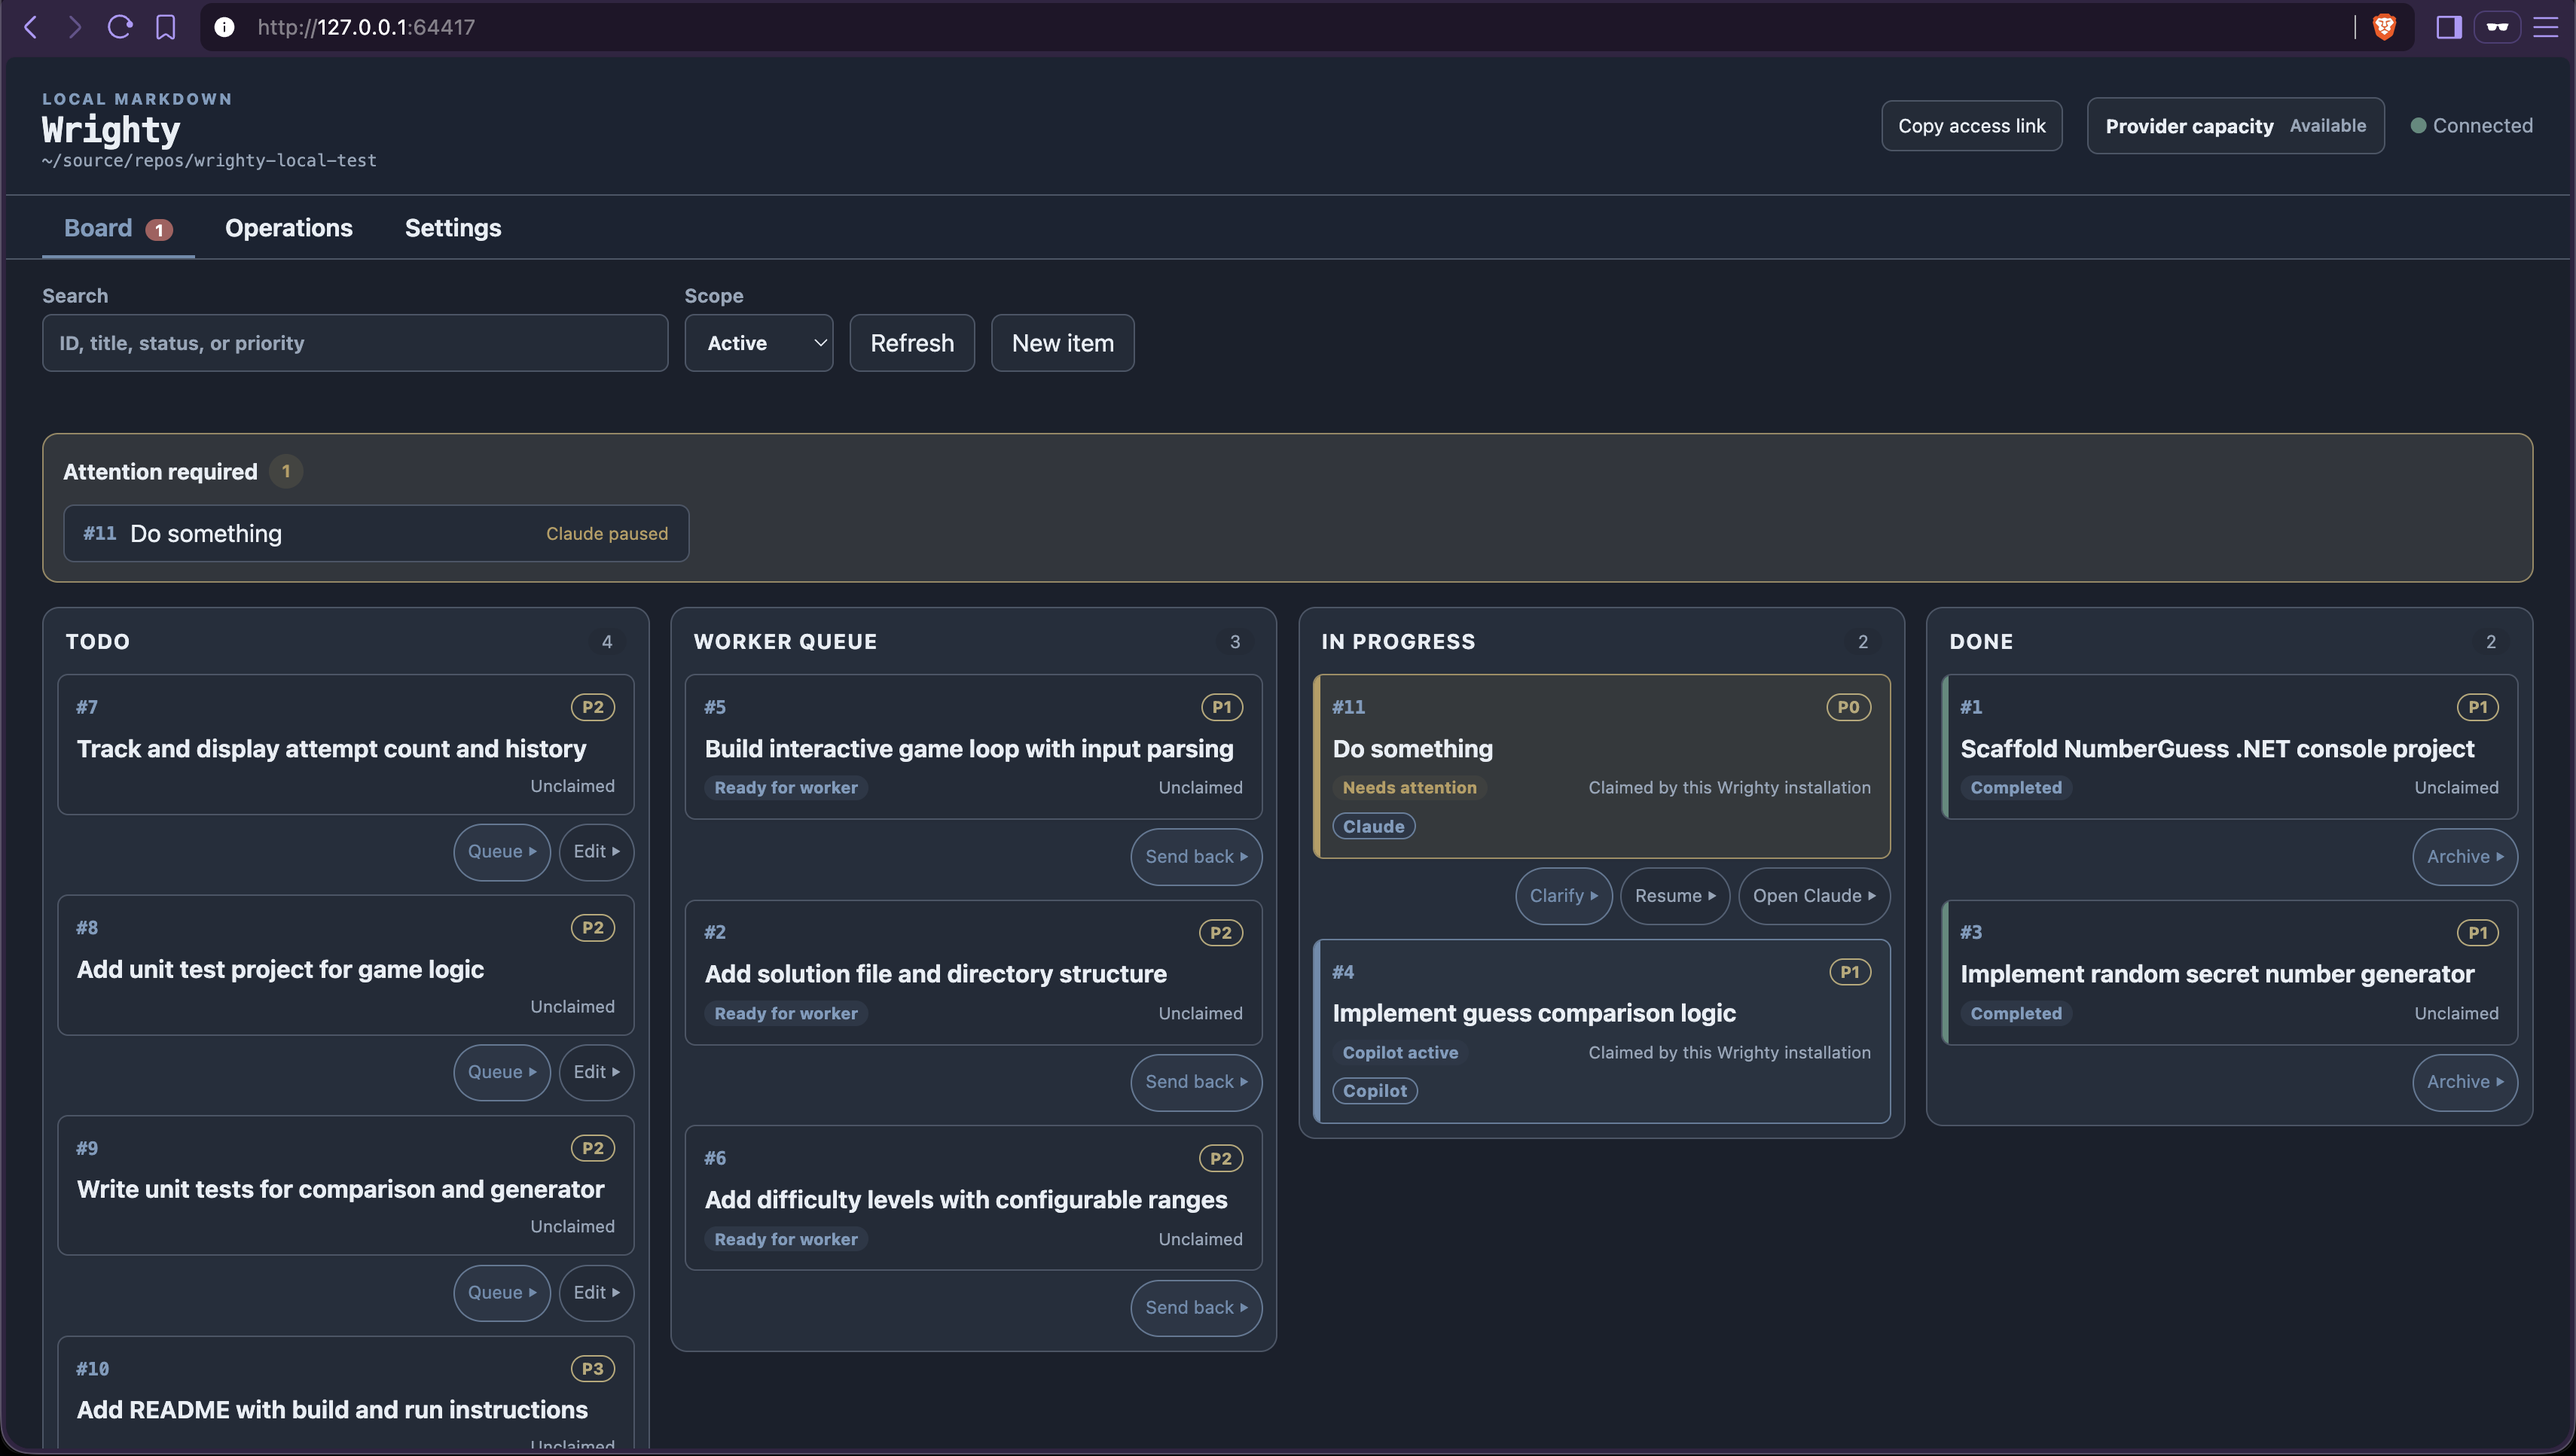
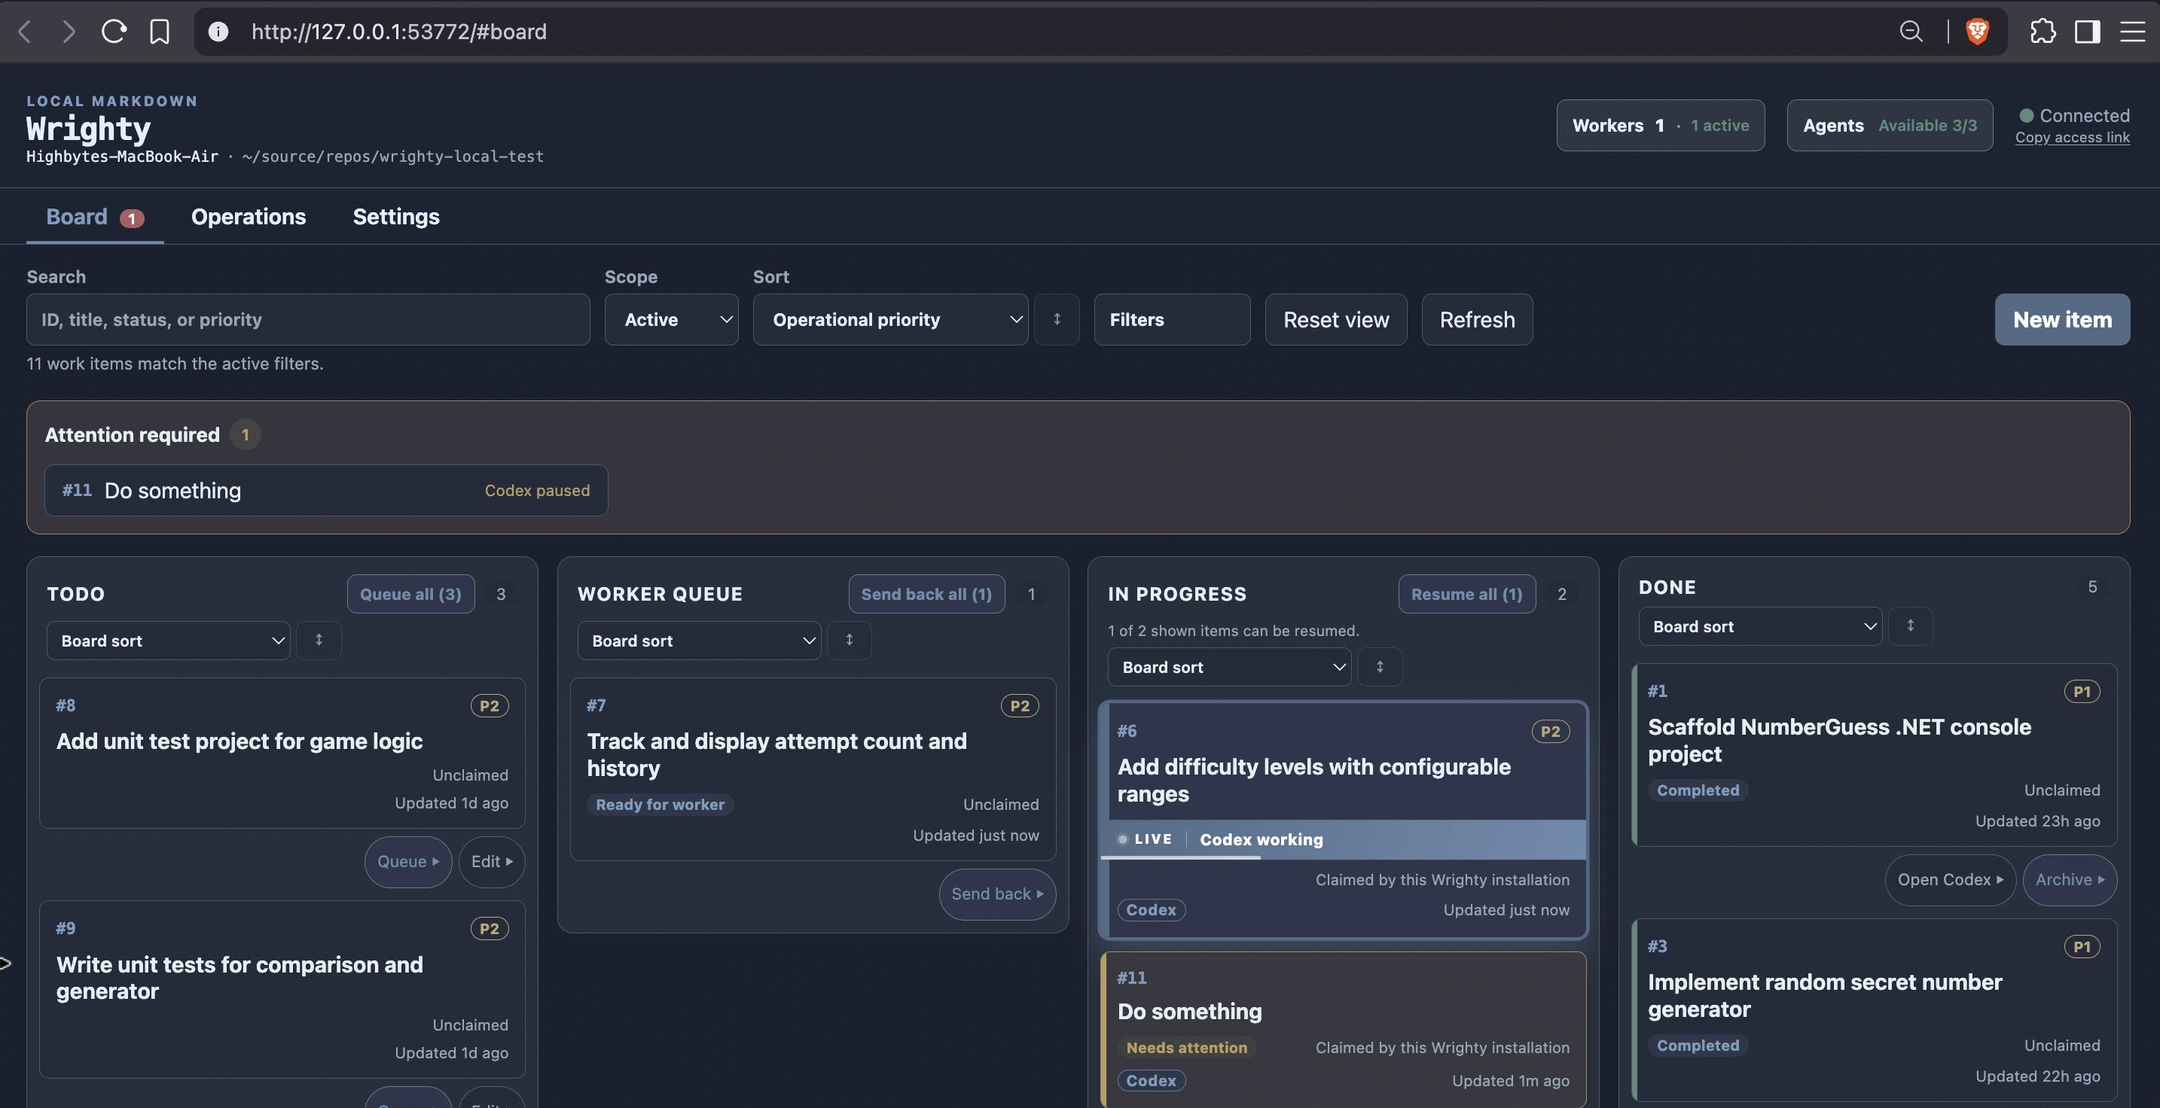
docs: expand web console screenshot gallery

diff --git a/README.md b/README.md
@@ -53,12 +53,20 @@ requirements and the exact coordination guarantees.
 With Local Markdown, `wrighty web` provides the board, item editor, recovery actions, and local
 worker visibility:
 
-[![Local Markdown Wrighty board with Todo, Worker queue, In Progress, Done, and attention-required items](docs/assets/screenshots/local-markdown-web-ui-board.png)](docs/assets/screenshots/local-markdown-web-ui-board.png)
+<p>
+  <a href="docs/assets/screenshots/local-markdown-web-ui-board.png"><img src="docs/assets/screenshots/local-markdown-web-ui-board.png" width="31%" align="top" alt="Local Markdown Wrighty board with Todo, Worker queue, In Progress, and Done columns"></a>
+  <a href="docs/assets/screenshots/local-markdown-web-ui-board-agents.png"><img src="docs/assets/screenshots/local-markdown-web-ui-board-agents.png" width="31%" align="top" alt="Local Markdown Wrighty board with the Agents popover open"></a>
+  <a href="docs/assets/screenshots/local-markdown-web-ui-board-workers.png"><img src="docs/assets/screenshots/local-markdown-web-ui-board-workers.png" width="31%" align="top" alt="Local Markdown Wrighty board with the Workers popover open"></a>
+</p>
+<p>
+  <a href="docs/assets/screenshots/local-markdown-web-ui-board-needs-attention.png"><img src="docs/assets/screenshots/local-markdown-web-ui-board-needs-attention.png" width="15.5%" align="top" alt="Local Markdown Wrighty board showing an item that needs attention"></a>
+  <a href="docs/assets/screenshots/local-markdown-web-ui-operations.png"><img src="docs/assets/screenshots/local-markdown-web-ui-operations.png" width="31%" align="top" alt="Local Markdown Wrighty Operations view"></a>
+</p>
 
 With the GitHub backend, the configured GitHub Project remains the shared board. Wrighty adds the
 queue, policy, claim, and recovery state used by local workers on each computer:
 
-[![GitHub Project board with Wrighty queue, policy, claim, and recovery fields](docs/assets/screenshots/github-board.png)](docs/assets/screenshots/github-board.png)
+<a href="docs/assets/screenshots/github-board.png"><img src="docs/assets/screenshots/github-board.png" width="31%" align="top" alt="GitHub Project board with Wrighty queue, policy, claim, and recovery fields"></a>
 
 See [Wrighty workflows](docs/workflows.md) for the actions behind these views and the
 [Web console](docs/reference/web-console.md) for the backend-specific web surfaces.

diff --git a/docs/workflows.md b/docs/workflows.md
@@ -172,9 +172,7 @@ For Local Markdown, run `wrighty web`, choose **New item**, enter the structured
 **Create item**. Creation does not claim the item or start a worker. The resulting card is selected
 and the board refreshes.
 
-[![Local Markdown New item form with status, priority, automatic execution, and agent policy controls](assets/screenshots/local-markdown-web-ui-item-create.png)](assets/screenshots/local-markdown-web-ui-item-create.png)
-
-The example above creates an explicitly authorized **Worker queue** item. For ordinary intake,
+To create an explicitly authorized **Worker queue** item, select that status. For ordinary intake,
 choose **Todo** and leave **Allow automatic execution** unchecked.
 
 For GitHub, create from the configured Project's `Todo` group or column in a board grouped by the
@@ -498,12 +496,7 @@ Wrighty takes no claim, passes no claimant credentials, and leaves any further c
 workspace changes to the operator.
 
 The Local Markdown item panel keeps the agent's request, last-run result, retained session and
-workspace, and the next recovery actions together. Select either view for the full-size image.
-
-<p>
-  <a href="assets/screenshots/local-markdown-web-ui-item-attention.png"><img src="assets/screenshots/local-markdown-web-ui-item-attention.png" width="49%" alt="Upper part of a Local Markdown item panel showing an agent request for clarification and the last run result"></a>
-  <a href="assets/screenshots/local-markdown-web-ui-item-attention2.png"><img src="assets/screenshots/local-markdown-web-ui-item-attention2.png" width="49%" alt="Lower part of the same item panel showing retained claim, session, workspace, and recovery actions"></a>
-</p>
+workspace, and the next recovery actions together.
 
 1. Open the item marked **Agent needs attention**.
 2. If the work item is already correct and an external problem has been fixed, choose **Queue for
